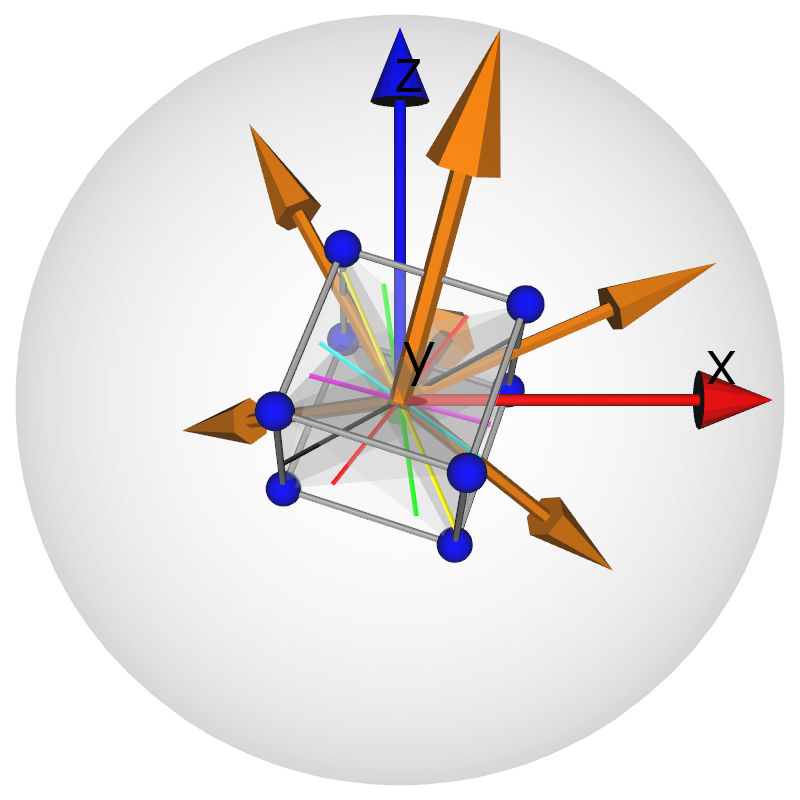
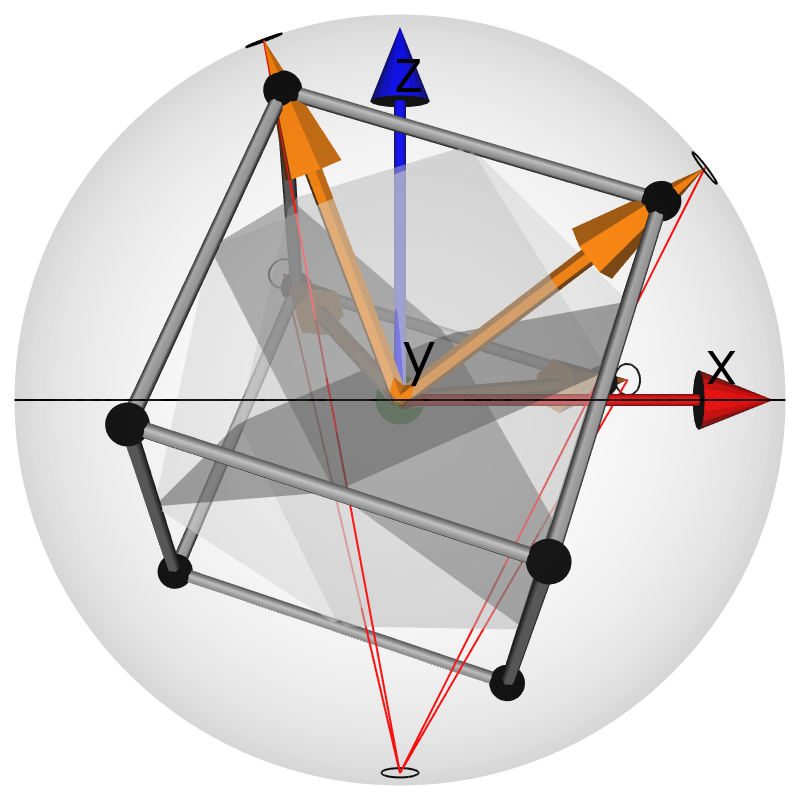
new method pole_figure_3d and updated example

Changed region(s): [[0.125, 0.0312, 0.9062, 0.9688]]

diff --git a/examples/3d_visualisation/pole_figure_3d.py b/examples/3d_visualisation/pole_figure_3d.py
@@ -1,130 +1,38 @@
 #!/usr/bin/env python
 import vtk, numpy, os
-from pymicro.crystal.lattice import Lattice, HklPlane
-from pymicro.crystal.microstructure import Orientation
+from pymicro.crystal.microstructure import Orientation, Grain
+from pymicro.crystal.texture import PoleFigure
 from pymicro.view.scene3d import Scene3D
-from pymicro.view import vtk_utils
-from vtk.util.colors import white, peacock, tomato, red, green, yellow, black, cyan, magenta
+from pymicro.view.vtk_utils import pole_figure_3d, axes_actor, setup_camera
 
+'''
+Create a 3d scene with a cubic crystal lattice at the center.
+Hkl planes are added to the lattice and their normal displayed.
+A sphere is added to show how a pole figure can be constructed.
+'''
 
-def create_pole_figure_3d(grain_orientation, show_arrows=True, show_slip_traces=False, verbose=False):
-    '''
-    Create a 3d scene with a cubic crystal lattice at the center.
-    Hkl planes are added to the lattice and their normal displayed.
-    A sphere is added to show how a pole figure can be constructed.
-    Slip traces on a particular plane can also be shown.
-    '''
-    # Create the 3D scene
-    base_name = os.path.splitext(__file__)[0]
-    s3d = Scene3D(display=False, ren_size=(800, 800), name=base_name)
-    m = grain_orientation.orientation_matrix()
-    mt = m.transpose()
+base_name = os.path.splitext(__file__)[0]
+s3d = Scene3D(display=False, ren_size=(800, 800), name=base_name)
 
-    # outbounding sphere radius
-    r = 1.
+orientation = Orientation.from_euler(numpy.array([142.8, 32.0, 214.4]))
+pf = PoleFigure(hkl='111')
+pf.microstructure.grains.append(Grain(1, orientation))
+pole_figure = pole_figure_3d(pf, radius=1.0, show_lattice=True)
 
-    # create the cubic lattice cell
-    a = r / 2
-    l = Lattice.cubic(a)
-    grid = vtk_utils.lattice_grid(l)
+# add all actors to the 3d scene
+s3d.add(pole_figure)
+axes = axes_actor(1.0, fontSize=60)
+s3d.add(axes)
 
-    # an assembly is used to gather all the elements of the cubic lattice together
-    cubic_lattice = vtk.vtkAssembly()
-    Edges = vtk_utils.lattice_edges(grid, tubeRadius=0.02 * a)
-    Vertices = vtk_utils.lattice_vertices(grid, sphereRadius=0.1 * a)
-    # add the two actors to the renderer
-    cubic_lattice.AddPart(Edges)
-    cubic_lattice.AddPart(Vertices)
+# set up camera
+cam = setup_camera(size=(1, 1, 1))
+cam.SetViewUp(0, 0, 1)
+cam.SetPosition(0, -4, 0)
+cam.SetFocalPoint(0, 0, 0)
+s3d.set_camera(cam)
+s3d.render()
 
-    # get a list of hkl planes in the 110 family
-    hklplanes = HklPlane.get_family('110')
-    colors = [red, green, yellow, black, cyan, magenta]  # correspond to pyplot 'rgykcmbw'
-
-    # add a vertical plane to show the slip plane intersection
-    # note that the plane is rotated towards the crystal CS
-    # to make the intersection with the slip plane...
-    vplane = vtk.vtkPlane()
-    vplane.SetOrigin(a / 2, a / 2, a / 2)
-    # n_inter = numpy.array([0, 0, 1]) # to plot slip traces on XY
-    n_inter = numpy.array([0, 1, 0])  # to plot slip traces on XZ
-    vplane.SetNormal(m.dot(n_inter))  # here the plane is rotated to crystal CS
-
-    for i, hklplane in enumerate(hklplanes):
-        origin = (a / 2, a / 2, a / 2)
-        plane = vtk.vtkPlane()
-        plane.SetOrigin(origin)
-        plane.SetNormal(hklplane.normal())
-        hklplaneActor = vtk_utils.add_plane_to_grid(plane, grid, origin)
-        cubic_lattice.AddPart(hklplaneActor)
-        # get a reference to the vtkPolyData representing the hkl plane
-        hklplanePolyData = hklplaneActor.GetMapper().GetInput()
-        if show_arrows:
-            # add an arrow to display the normal to the plane
-            arrowActor = vtk_utils.unit_arrow_3d(origin, hklplane.normal())
-            cubic_lattice.AddPart(arrowActor)
-        if verbose:
-            # debug infos:
-            print 'slip plane normal', hklplane.normal
-            print 'rotated slip plane normal', mt.dot(hklplane.normal())
-            print 'intersection plane', n_inter
-            print 'intersection line has unit vector:', numpy.cross(mt.dot(hklplane.normal()), n_inter)
-        if show_slip_traces:
-            # cut the rotated plane with the vertical plane to display the trace
-            slipTrace = vtk.vtkCutter()
-            if vtk.vtkVersion().GetVTKMajorVersion() > 5:
-                slipTrace.SetInputData(hklplanePolyData)
-            else:
-                slipTrace.SetInput(hklplanePolyData)
-            slipTrace.SetCutFunction(vplane)
-            slipTrace.Update()  # this is a vtkPolyData
-            slipTraceMapper = vtk.vtkPolyDataMapper()
-            slipTraceMapper.SetInputConnection(slipTrace.GetOutputPort())
-            slipTraceActor = vtk.vtkActor()
-            slipTraceActor.SetMapper(slipTraceMapper)
-            slipTraceActor.GetProperty().SetColor(colors[i])
-            slipTraceActor.GetProperty().SetLineWidth(5)
-            cubic_lattice.AddPart(slipTraceActor)
-
-    # place the center of the lattice at (0.0, 0.0, 0.0)
-    cubic_lattice.SetOrigin(a / 2, a / 2, a / 2)
-    cubic_lattice.AddPosition(-a / 2, -a / 2, -a / 2)
-    cubic_lattice.RotateZ(grain_orientation.phi1())
-    cubic_lattice.RotateX(grain_orientation.Phi())
-    cubic_lattice.RotateZ(grain_orientation.phi2())
-
-    # add an outbounding sphere
-    sphereSource = vtk.vtkSphereSource()
-    sphereSource.SetCenter(0.0, 0.0, 0.0)
-    sphereSource.SetRadius(r)
-    sphereSource.SetPhiResolution(40)
-    sphereSource.SetThetaResolution(40)
-    sphereMapper = vtk.vtkPolyDataMapper()
-    sphereMapper.SetInputConnection(sphereSource.GetOutputPort())
-    sphereMapper.ScalarVisibilityOff()
-    sphereActor = vtk.vtkActor()
-    sphereActor.SetMapper(sphereMapper)
-    sphereActor.GetProperty().SetOpacity(0.1)
-
-    # add all actors to the 3d scene
-    s3d.add(cubic_lattice)
-    s3d.add(sphereActor)
-    axes = vtk_utils.axes_actor(r, fontSize=60)
-    s3d.add(axes)
-
-    # set up camera
-    cam = vtk.vtkCamera()
-    cam.SetViewUp(0, 0, 1)
-    cam.SetPosition(0, -4 * r, 0)
-    cam.SetFocalPoint(0, 0, 0)
-    s3d.set_camera(cam)
-    s3d.render()
-
-    # thumbnail for the image gallery
-    from matplotlib import image
-    image_name = base_name + '.png'
-    image.thumbnail(image_name, 'thumb_' + image_name, 0.2)
-
-
-if __name__ == '__main__':
-    orientation = Orientation.from_euler(numpy.array([142.8, 32.0, 214.4]))
-    create_pole_figure_3d(orientation, show_arrows=True, show_slip_traces=True, verbose=False)
+# thumbnail for the image gallery
+from matplotlib import image
+image_name = base_name + '.png'
+image.thumbnail(image_name, 'thumb_' + image_name, 0.2)

diff --git a/pymicro/view/vtk_utils.py b/pymicro/view/vtk_utils.py
@@ -1027,6 +1027,116 @@ def lattice_3d_with_plane_series(lattice, hkl, nps=1, **kwargs):
     return lattice_3d_with_planes(lattice, hkl_planes, plane_origins=plane_origins, **kwargs)
 
 
+def pole_figure_3d(pf, radius=1.0, show_lattice=False):
+    """
+    Method to display a pole figure in 3d.
+
+    This method displays a sphere of radius 1 with a crystal lattice placed at the center (only shown if 
+    the show_lattice parameter is True). The poles associated with the pole figure are shown on the outbounding 
+    sphere as well as the projection n the equatorial plane.
+
+    :param pf: the `PoleFigure` instance .
+    :param float radius: the outbounding sphere radius (1 by default).
+    :param show_lattice: a flag to show the crystal lattice in the center of the sphere.
+    :return: a vtk assembly that can be added to a `Scene3D` instance.
+    """
+    pole_figure = vtk.vtkAssembly()
+    orientations = pf.get_orientations()
+    # keep a list of useful points on the sphere
+    points_on_sphere = [(0.0, 0.0, -radius)]  # first point is the south pole
+
+    # get a list of hkl planes in the family
+    hkl_planes = HklPlane.get_family(pf.family)
+    orientation = orientations[0]  # treat only the first orientation for now
+    g = orientation.orientation_matrix()
+    gt = g.transpose()
+    lattice_3d = lattice_3d_with_planes(pf.lattice, hkl_planes,
+                                        crystal_orientation=orientation,
+                                        show_normal=False,
+                                        origin='mid',
+                                        tubeRadius=0.2 * radius / 10,
+                                        sphereRadius=0.5 * radius / 10,
+                                        plane_opacity=0.5)
+    origin = 0.5 * np.array(pf.lattice._lengths)
+    for hkl_plane in hkl_planes:
+        if gt.dot(hkl_plane.normal())[2] < 0:
+            print('inverting hkl')
+            hkl_plane._h = -hkl_plane._h
+            hkl_plane._k = -hkl_plane._k
+            hkl_plane._l = -hkl_plane._l
+        points_on_sphere.append(radius * gt.dot(hkl_plane.normal()))
+        if show_lattice:
+            # add an arrow to display the normal to the plane
+            arrow_actor = unit_arrow_3d(origin, radius * hkl_plane.normal())
+            lattice_3d.AddPart(arrow_actor)
+    if show_lattice:
+        pole_figure.AddPart(lattice_3d)
+
+    # add the outbounding sphere
+    sphere_source = vtk.vtkSphereSource()
+    sphere_source.SetCenter(0.0, 0.0, 0.0)
+    sphere_source.SetRadius(radius)
+    sphere_source.SetPhiResolution(300)
+    sphere_source.SetThetaResolution(300)
+    sphere_mapper = vtk.vtkPolyDataMapper()
+    sphere_mapper.SetInputConnection(sphere_source.GetOutputPort())
+    sphere_mapper.ScalarVisibilityOff()
+    sphere_actor = vtk.vtkActor()
+    sphere_actor.SetMapper(sphere_mapper)
+    sphere_actor.GetProperty().SetOpacity(0.1)
+    pole_figure.AddPart(sphere_actor)
+
+    # draw south pole and arrow tip
+    for i, c in enumerate(points_on_sphere):
+        south_pole = vtk.vtkSphere()
+        south_pole.SetCenter(c)
+        south_pole.SetRadius(radius * 0.05)
+        south_pole_cut = vtk.vtkCutter()
+        south_pole_cut.SetInputConnection(sphere_source.GetOutputPort())
+        south_pole_cut.SetCutFunction(south_pole)
+        south_pole_cut_mapper = vtk.vtkPolyDataMapper()
+        south_pole_cut_mapper.SetInputConnection(south_pole_cut.GetOutputPort())
+        south_pole_cut_actor = vtk.vtkActor()
+        south_pole_cut_actor.SetMapper(south_pole_cut_mapper)
+        south_pole_cut_actor.GetProperty().SetLineWidth(2.0)
+        south_pole_cut_actor.GetProperty().SetColor(black)
+        pole_figure.AddPart(south_pole_cut_actor)
+        if i > 0:
+            # add a line between the arrow tip and the south pole
+            line_actor = line_3d(points_on_sphere[0], c)
+            line_actor.GetProperty().SetLineWidth(2.0)
+            line_actor.GetProperty().SetDiffuseColor(1.0, 0., 0.)
+            pole_figure.AddPart(line_actor)
+            # now add the pole on the equatorial plane
+            cp = np.array(c) + np.array([0, 0, radius])
+            cp /= cp[2] / radius  # SP'/SP = r/z with r != 1
+            pole = vtk.vtkRegularPolygonSource()
+            pole.SetRadius(radius * 0.05)
+            pole.SetCenter(cp[0], cp[1], 0.0)
+            pole.SetNumberOfSides(50)
+            pole_ma = vtk.vtkPolyDataMapper()
+            pole_ma.SetInputConnection(pole.GetOutputPort())
+            pole_actor = vtk.vtkActor()
+            pole_actor.SetMapper(pole_ma)
+            pole_actor.GetProperty().SetColor(black)
+            pole_figure.AddPart(pole_actor)
+
+    # add the equatorial plane trace on the sphere
+    equatorial_plane_source = vtk.vtkPlaneSource()
+    equatorial_plane_source.SetOrigin(-radius, -radius, 0)
+    equatorial_plane_source.SetPoint1(radius, -radius, 0)
+    equatorial_plane_source.SetPoint2(-radius, radius, 0)
+    equatorial_plane = vtk.vtkPlane()
+    equatorial_plane.SetOrigin(0, 0, 0)
+    equatorial_plane.SetNormal(0, 0, 1)
+    equatorial_plane_contour = add_plane_to_grid(equatorial_plane, sphere_source.GetOutput(), None, opacity=1.0)
+    equatorial_plane_contour.GetProperty().SetLineWidth(2.0)
+    equatorial_plane_contour.GetProperty().SetColor(black)
+    pole_figure.AddPart(equatorial_plane_contour)
+
+    return pole_figure
+
+
 def apply_translation_to_actor(actor, trans):
     '''
     Transform the actor (or whole assembly) using the specified translation.
